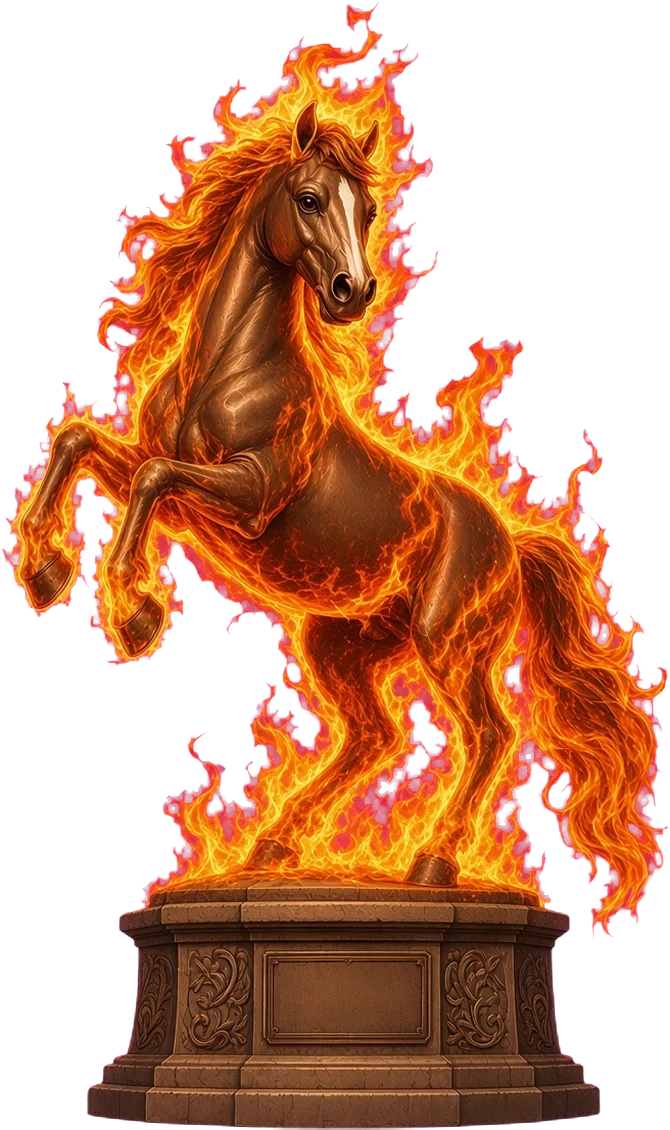
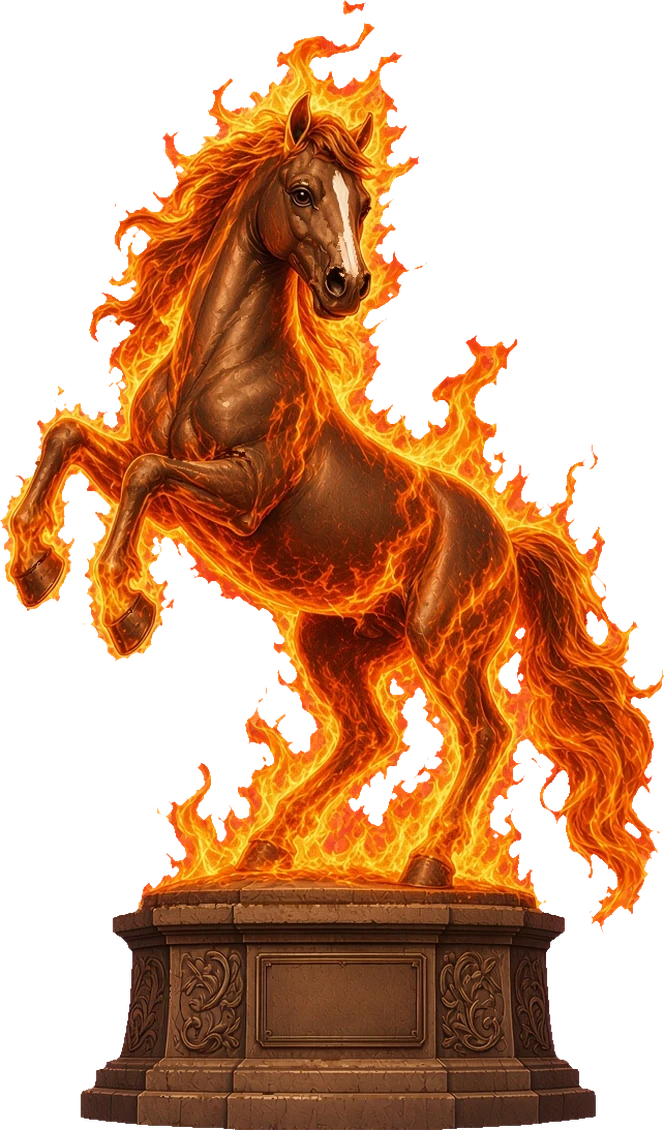
Fire Horse Plaza statues: clean magenta fringe, despill edges

Changed region(s): [[0.0, 0.0, 1.0, 1.0]]

diff --git a/fire-horse-plaza/index.html b/fire-horse-plaza/index.html
@@ -32,9 +32,9 @@
         <p class="lede">The heart of Rowdyland. Where Rowdy burns and rises in gold.</p>
         <button type="button" class="statue" id="statue" aria-label="Start the fire ceremony" aria-pressed="false">
           <span class="stack">
-            <img id="img-stone" src="art/hero-statue.webp?v=rowdy1" alt="Rowdy, a giant bronze horse statue on a stone pedestal" width="806" height="1359">
-            <img id="img-fire" src="art/hero-fire.webp?v=rowdy1" alt="" aria-hidden="true" width="806" height="1359">
-            <img id="img-gold" src="art/hero-gold.webp?v=rowdy1" alt="" aria-hidden="true" width="806" height="1359">
+            <img id="img-stone" src="art/hero-statue.webp?v=rowdy2" alt="Rowdy, a giant bronze horse statue on a stone pedestal" width="806" height="1372">
+            <img id="img-fire" src="art/hero-fire.webp?v=rowdy2" alt="" aria-hidden="true" width="806" height="1372">
+            <img id="img-gold" src="art/hero-gold.webp?v=rowdy2" alt="" aria-hidden="true" width="806" height="1372">
           </span>
           <span class="pp-bubble" aria-hidden="true">Light the fire &#128293;</span>
         </button>
@@ -49,12 +49,12 @@
 
       <section class="panel feature right" id="when" data-time="night">
         <div class="card"><span class="tag n">Final night</span><h2>After the Sun Sets</h2><p>When the sky goes dark and the main stage goes quiet, everyone turns to the plaza.</p></div>
-        <div class="art" data-speed="-0.08"><img src="art/statue.webp?v=rowdy1" alt="Rowdy, a giant bronze horse statue rearing on a carved stone pedestal"></div>
+        <div class="art" data-speed="-0.08"><img src="art/statue.webp?v=rowdy2" alt="Rowdy, a giant bronze horse statue rearing on a carved stone pedestal"></div>
       </section>
 
       <section class="panel feature left" id="ceremony" data-time="night">
         <div class="card"><span class="tag n">Final night</span><h2>The Fire Ceremony</h2><p>Throw what you are done carrying into the fire and walk out new. Rowdy comes out gold, and so do we.</p></div>
-        <div class="art" data-speed="-0.08"><img src="art/fire.webp?v=rowdy1" alt="The bronze horse statue Rowdy engulfed in flames rising into the sky"></div>
+        <div class="art" data-speed="-0.08"><img src="art/fire.webp?v=rowdy2" alt="The bronze horse statue Rowdy engulfed in flames rising into the sky"></div>
       </section>
 
       <section class="panel feature right" id="anthem">
@@ -64,11 +64,11 @@
 
       <section class="panel feature left" id="gold" data-time="night">
         <div class="card"><span class="tag n">The finale</span><h2>Revealed in Gold</h2><p>The fire shoots into the sky. When it burns out, Rowdy stands there shining in gold.</p></div>
-        <div class="art" data-speed="-0.08"><img src="art/gold.webp?v=rowdy1" alt="Rowdy the horse statue gleaming in gold on its stone pedestal"></div>
+        <div class="art" data-speed="-0.08"><img src="art/gold.webp?v=rowdy2" alt="Rowdy the horse statue gleaming in gold on its stone pedestal"></div>
       </section>
 
       <section class="panel cta" id="tickets">
-        <img class="cta-horse" src="art/gold.webp?v=rowdy1" alt="" aria-hidden="true">
+        <img class="cta-horse" src="art/gold.webp?v=rowdy2" alt="" aria-hidden="true">
         <h2>Be there when Rowdy burns</h2>
         <a class="big-cta" href="#reserve" data-reserve>Get your tickets now!</a>
         <p class="fine">Ticket sales open soon. Save your spot and we'll let you know first.</p>
